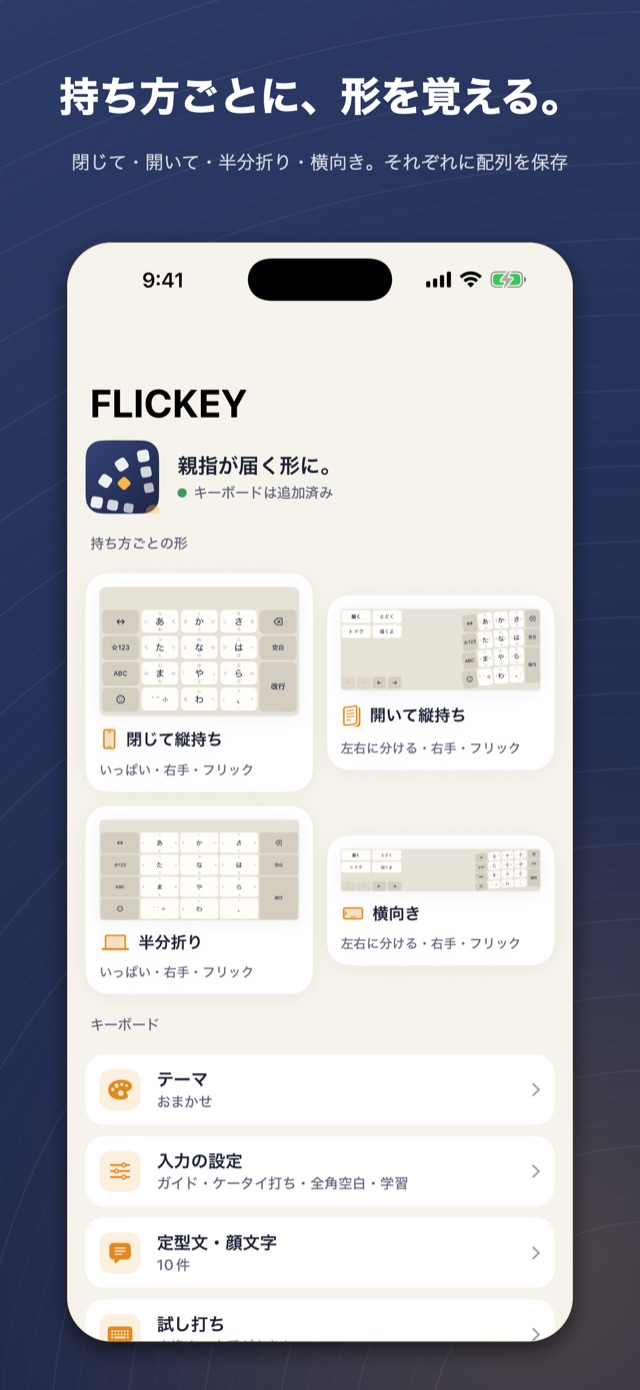
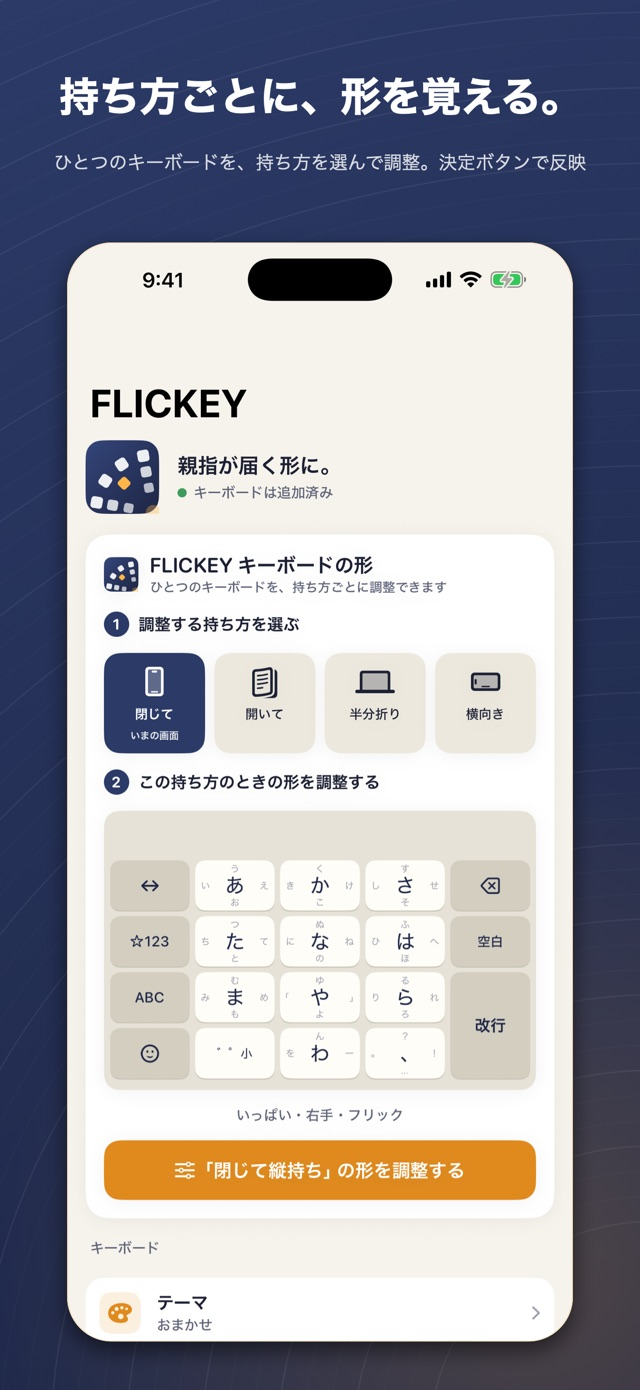
FLICKEY: 持ち方を選んでから調整し「この形に決定」で反映する流れに合わせて、紹介文・FAQ・スクショ2枚（ホーム・テーマ）を差し替え、CSPハッシュ全再計算(477→477件)

Changed region(s): [[0.125, 0.3712, 0.8438, 0.9899], [0.0938, 0.0928, 0.9062, 0.1237]]

diff --git a/apps/flickey.html b/apps/flickey.html
@@ -79,9 +79,9 @@
       <div class="shots-strip">
         <a href="/assets/shots/flickey/01.jpg" target="_blank" rel="noopener"><img src="/assets/shots/flickey/01.jpg" width="640" height="1386" alt="FLICKEYの「開いても、閉じても、親指が届く。」の見出しと、メモに文字を打っている画面。キーボードは右手の親指の弧に沿ってかなのキーを扇形に並べた片手配列で、空いた左側に持ち替え・上下左右のカーソル・しまうボタン。入力中の「とどく」に下線が引かれ、上に「トドク」「届く！」「とどく」「届く」の候補が並んでいる" loading="lazy" decoding="async"></a>
         <a href="/assets/shots/flickey/02.jpg" target="_blank" rel="noopener"><img src="/assets/shots/flickey/02.jpg" width="640" height="1386" alt="FLICKEYの「開けば、両手で。」の見出しと、大きな画面を開いて使っている様子。キーボードを左右に分け、左に「開けば」「ひらけば」「拓けば」などの変換候補を大きく、右にかなのフリックキーを並べている" loading="lazy" decoding="async"></a>
-        <a href="/assets/shots/flickey/03.jpg" target="_blank" rel="noopener"><img src="/assets/shots/flickey/03.jpg" width="640" height="1386" alt="FLICKEYの「持ち方ごとに、形を覚える。」の見出しと、アプリのホーム画面。「閉じて縦持ち」「開いて縦持ち」「半分折り」「横向き」の4枚のカードに、それぞれの持ち方で使うキーボードの見本（いっぱい・左右に分ける、右手・フリック）が出ている。下にテーマ・入力の設定・定型文・顔文字・試し打ちの項目" loading="lazy" decoding="async"></a>
+        <a href="/assets/shots/flickey/03.jpg" target="_blank" rel="noopener"><img src="/assets/shots/flickey/03.jpg" width="640" height="1386" alt="FLICKEYの「持ち方ごとに、形を覚える。」の見出しと、アプリのホーム画面。「FLICKEY キーボードの形」の中で、①調整する持ち方（閉じて・開いて・半分折り・横向き）を端末の絵から選び、②その持ち方のときのキーボードの見本（いっぱい・右手・フリック）と「『閉じて縦持ち』の形を調整する」ボタンが出ている。いまの画面で使われる持ち方に「いまの画面」の印" loading="lazy" decoding="async"></a>
         <a href="/assets/shots/flickey/04.jpg" target="_blank" rel="noopener"><img src="/assets/shots/flickey/04.jpg" width="640" height="1386" alt="FLICKEYの「下線と、流れない候補。」の見出しと、メモで「へんかん」を変換している画面。未確定の「へんかん」に下線が引かれ、キーボードの上に「変換」「返還」「へんかん」「偏官」の候補と、次のページへ送る矢印が並んでいる" loading="lazy" decoding="async"></a>
-        <a href="/assets/shots/flickey/05.jpg" target="_blank" rel="noopener"><img src="/assets/shots/flickey/05.jpg" width="640" height="1386" alt="FLICKEYの「変換は端末の中だけ。」の見出しと、テーマを選ぶ画面。おまかせ・藍・和紙・抹茶・桜・墨の6つのテーマを、それぞれのキーボードの見本つきで並べ、「おまかせ」が選ばれている。「おまかせは、入力欄が暗いときは藍、明るいときは和紙になります」の説明つき" loading="lazy" decoding="async"></a>
+        <a href="/assets/shots/flickey/05.jpg" target="_blank" rel="noopener"><img src="/assets/shots/flickey/05.jpg" width="640" height="1386" alt="FLICKEYの「変換は端末の中だけ。」の見出しと、テーマを選ぶ画面。上に選んだテーマのキーボードの大きな見本、下におまかせ・藍・和紙・抹茶・桜・墨の6つのテーマを見本つきで並べ、いま使っている「おまかせ」に「使用中」の印。画面の下に「いまのキーボードは『おまかせ』です」の表示" loading="lazy" decoding="async"></a>
       </div>
       <p class="shots-note">実際の画面です。App Store に掲載しているものと同じものを載せています。App Store 公開後、ここから直接開けるようにします</p>
     </section>
@@ -100,7 +100,7 @@
       <p>FLICKEY は、持ち方に合わせて形が変わる「届く」配列はそのままに、変換・下線・候補・キーの判定を作り直しました。</p>
 
       <h2>持ち方ごとに、形を覚える</h2>
-      <p>「<strong>閉じて縦持ち</strong>」「<strong>開いて縦持ち</strong>」「<strong>半分折り</strong>」「<strong>横向き</strong>」の4つの持ち方に、別々の形を保存できます。閉じた画面・開いた大きな画面・横向きは、画面の大きさと向きから判断して、その持ち方の形で出てきます。形は持ち方ごとに3種類から選べます。</p>
+      <p>「<strong>閉じて縦持ち</strong>」「<strong>開いて縦持ち</strong>」「<strong>半分折り</strong>」「<strong>横向き</strong>」の4つの持ち方ごとに、ひとつのキーボードの形を調整できます。ホームで調整する持ち方を選び、形を変えて「この形に決定」を押すとキーボードに反映されます（決定するまでは今までの形のままです）。閉じた画面・開いた大きな画面・横向きは、画面の大きさと向きから判断して、その持ち方の形で出てきます。形は持ち方ごとに3種類から選べます。</p>
       <ul>
         <li><strong>いっぱい</strong> — 画面の幅いっぱいに並べる、ふつうの形。</li>
         <li><strong>片手</strong> — 親指の弧に沿ってキーを扇形に並べます。カーブの強さは自由に調整でき、遠いキーを少し大きくして押し損じを減らせます。空いた側には持ち替え・カーソル・しまうボタン。持ち替えは1タップで左右反転し、左手でも使えます。</li>

diff --git a/support.html b/support.html
@@ -1082,7 +1082,7 @@
       "name": "持ち方を変えても、形が切り替わりません",
       "acceptedAnswer": {
         "@type": "Answer",
-        "text": "FLICKEY は「閉じて縦持ち」「開いて縦持ち」「半分折り」「横向き」の4つの持ち方に別々の形を保存できます。閉じた画面・開いた大きな画面・横向きは、画面の大きさと向きから判断して切り替えます。次をご確認ください。 アプリのホーム画面で、それぞれの持ち方のカードに形が保存されているか（同じ形を選んでいると、切り替わっても見た目は変わりません） 画面の向きのロックがオンになっていないか（横向きにならないと「横向き」の形は出ません）"
+        "text": "FLICKEY は「閉じて縦持ち」「開いて縦持ち」「半分折り」「横向き」の4つの持ち方に別々の形を保存できます。閉じた画面・開いた大きな画面・横向きは、画面の大きさと向きから判断して切り替えます。次をご確認ください。 アプリのホーム画面で持ち方を選び、形を変えたあとに「この形に決定」を押したか（決定するまでキーボードには反映されません。同じ形を選んでいると、切り替わっても見た目は変わりません） 画面の向きのロックがオンになっていないか（横向きにならないと「横向き」の形は出ません）"
       }
     },
     {
@@ -2612,7 +2612,7 @@
           <div class="a">
             <p>FLICKEY は「閉じて縦持ち」「開いて縦持ち」「半分折り」「横向き」の4つの持ち方に別々の形を保存できます。閉じた画面・開いた大きな画面・横向きは、画面の大きさと向きから判断して切り替えます。次をご確認ください。</p>
             <ul>
-              <li>アプリのホーム画面で、それぞれの持ち方のカードに形が保存されているか（同じ形を選んでいると、切り替わっても見た目は変わりません）</li>
+              <li>アプリのホーム画面で持ち方を選び、形を変えたあとに「この形に決定」を押したか（決定するまでキーボードには反映されません。同じ形を選んでいると、切り替わっても見た目は変わりません）</li>
               <li>画面の向きのロックがオンになっていないか（横向きにならないと「横向き」の形は出ません）</li>
             </ul>
           </div>

diff --git a/tools/shots.py b/tools/shots.py
@@ -12,9 +12,9 @@ SHOTS = {
     "flickey": [
         "「開いても、閉じても、親指が届く。」の見出しと、メモに文字を打っている画面。キーボードは右手の親指の弧に沿ってかなのキーを扇形に並べた片手配列で、空いた左側に持ち替え・上下左右のカーソル・しまうボタン。入力中の「とどく」に下線が引かれ、上に「トドク」「届く！」「とどく」「届く」の候補が並んでいる",
         "「開けば、両手で。」の見出しと、大きな画面を開いて使っている様子。キーボードを左右に分け、左に「開けば」「ひらけば」「拓けば」などの変換候補を大きく、右にかなのフリックキーを並べている",
-        "「持ち方ごとに、形を覚える。」の見出しと、アプリのホーム画面。「閉じて縦持ち」「開いて縦持ち」「半分折り」「横向き」の4枚のカードに、それぞれの持ち方で使うキーボードの見本（いっぱい・左右に分ける、右手・フリック）が出ている。下にテーマ・入力の設定・定型文・顔文字・試し打ちの項目",
+        "「持ち方ごとに、形を覚える。」の見出しと、アプリのホーム画面。「FLICKEY キーボードの形」の中で、①調整する持ち方（閉じて・開いて・半分折り・横向き）を端末の絵から選び、②その持ち方のときのキーボードの見本（いっぱい・右手・フリック）と「『閉じて縦持ち』の形を調整する」ボタンが出ている。いまの画面で使われる持ち方に「いまの画面」の印",
         "「下線と、流れない候補。」の見出しと、メモで「へんかん」を変換している画面。未確定の「へんかん」に下線が引かれ、キーボードの上に「変換」「返還」「へんかん」「偏官」の候補と、次のページへ送る矢印が並んでいる",
-        "「変換は端末の中だけ。」の見出しと、テーマを選ぶ画面。おまかせ・藍・和紙・抹茶・桜・墨の6つのテーマを、それぞれのキーボードの見本つきで並べ、「おまかせ」が選ばれている。「おまかせは、入力欄が暗いときは藍、明るいときは和紙になります」の説明つき",
+        "「変換は端末の中だけ。」の見出しと、テーマを選ぶ画面。上に選んだテーマのキーボードの大きな見本、下におまかせ・藍・和紙・抹茶・桜・墨の6つのテーマを見本つきで並べ、いま使っている「おまかせ」に「使用中」の印。画面の下に「いまのキーボードは『おまかせ』です」の表示",
     ],
     "shifpon": [
         "「シフトは、ぽんと押すだけ。」の見出しと、シフト画面。上部に「次のシフト」として きょう 10/14(水) 18:00–21:30 個別指導塾 ¥6,300 と「あと4時間40分」、その下に早番・遅番・通し・塾のスタンプが色分けで押された2026年10月のカレンダー、画面下に「『遅番』を押す日をタップ（もう一度で外す）」とスタンプの一覧を表示している",
